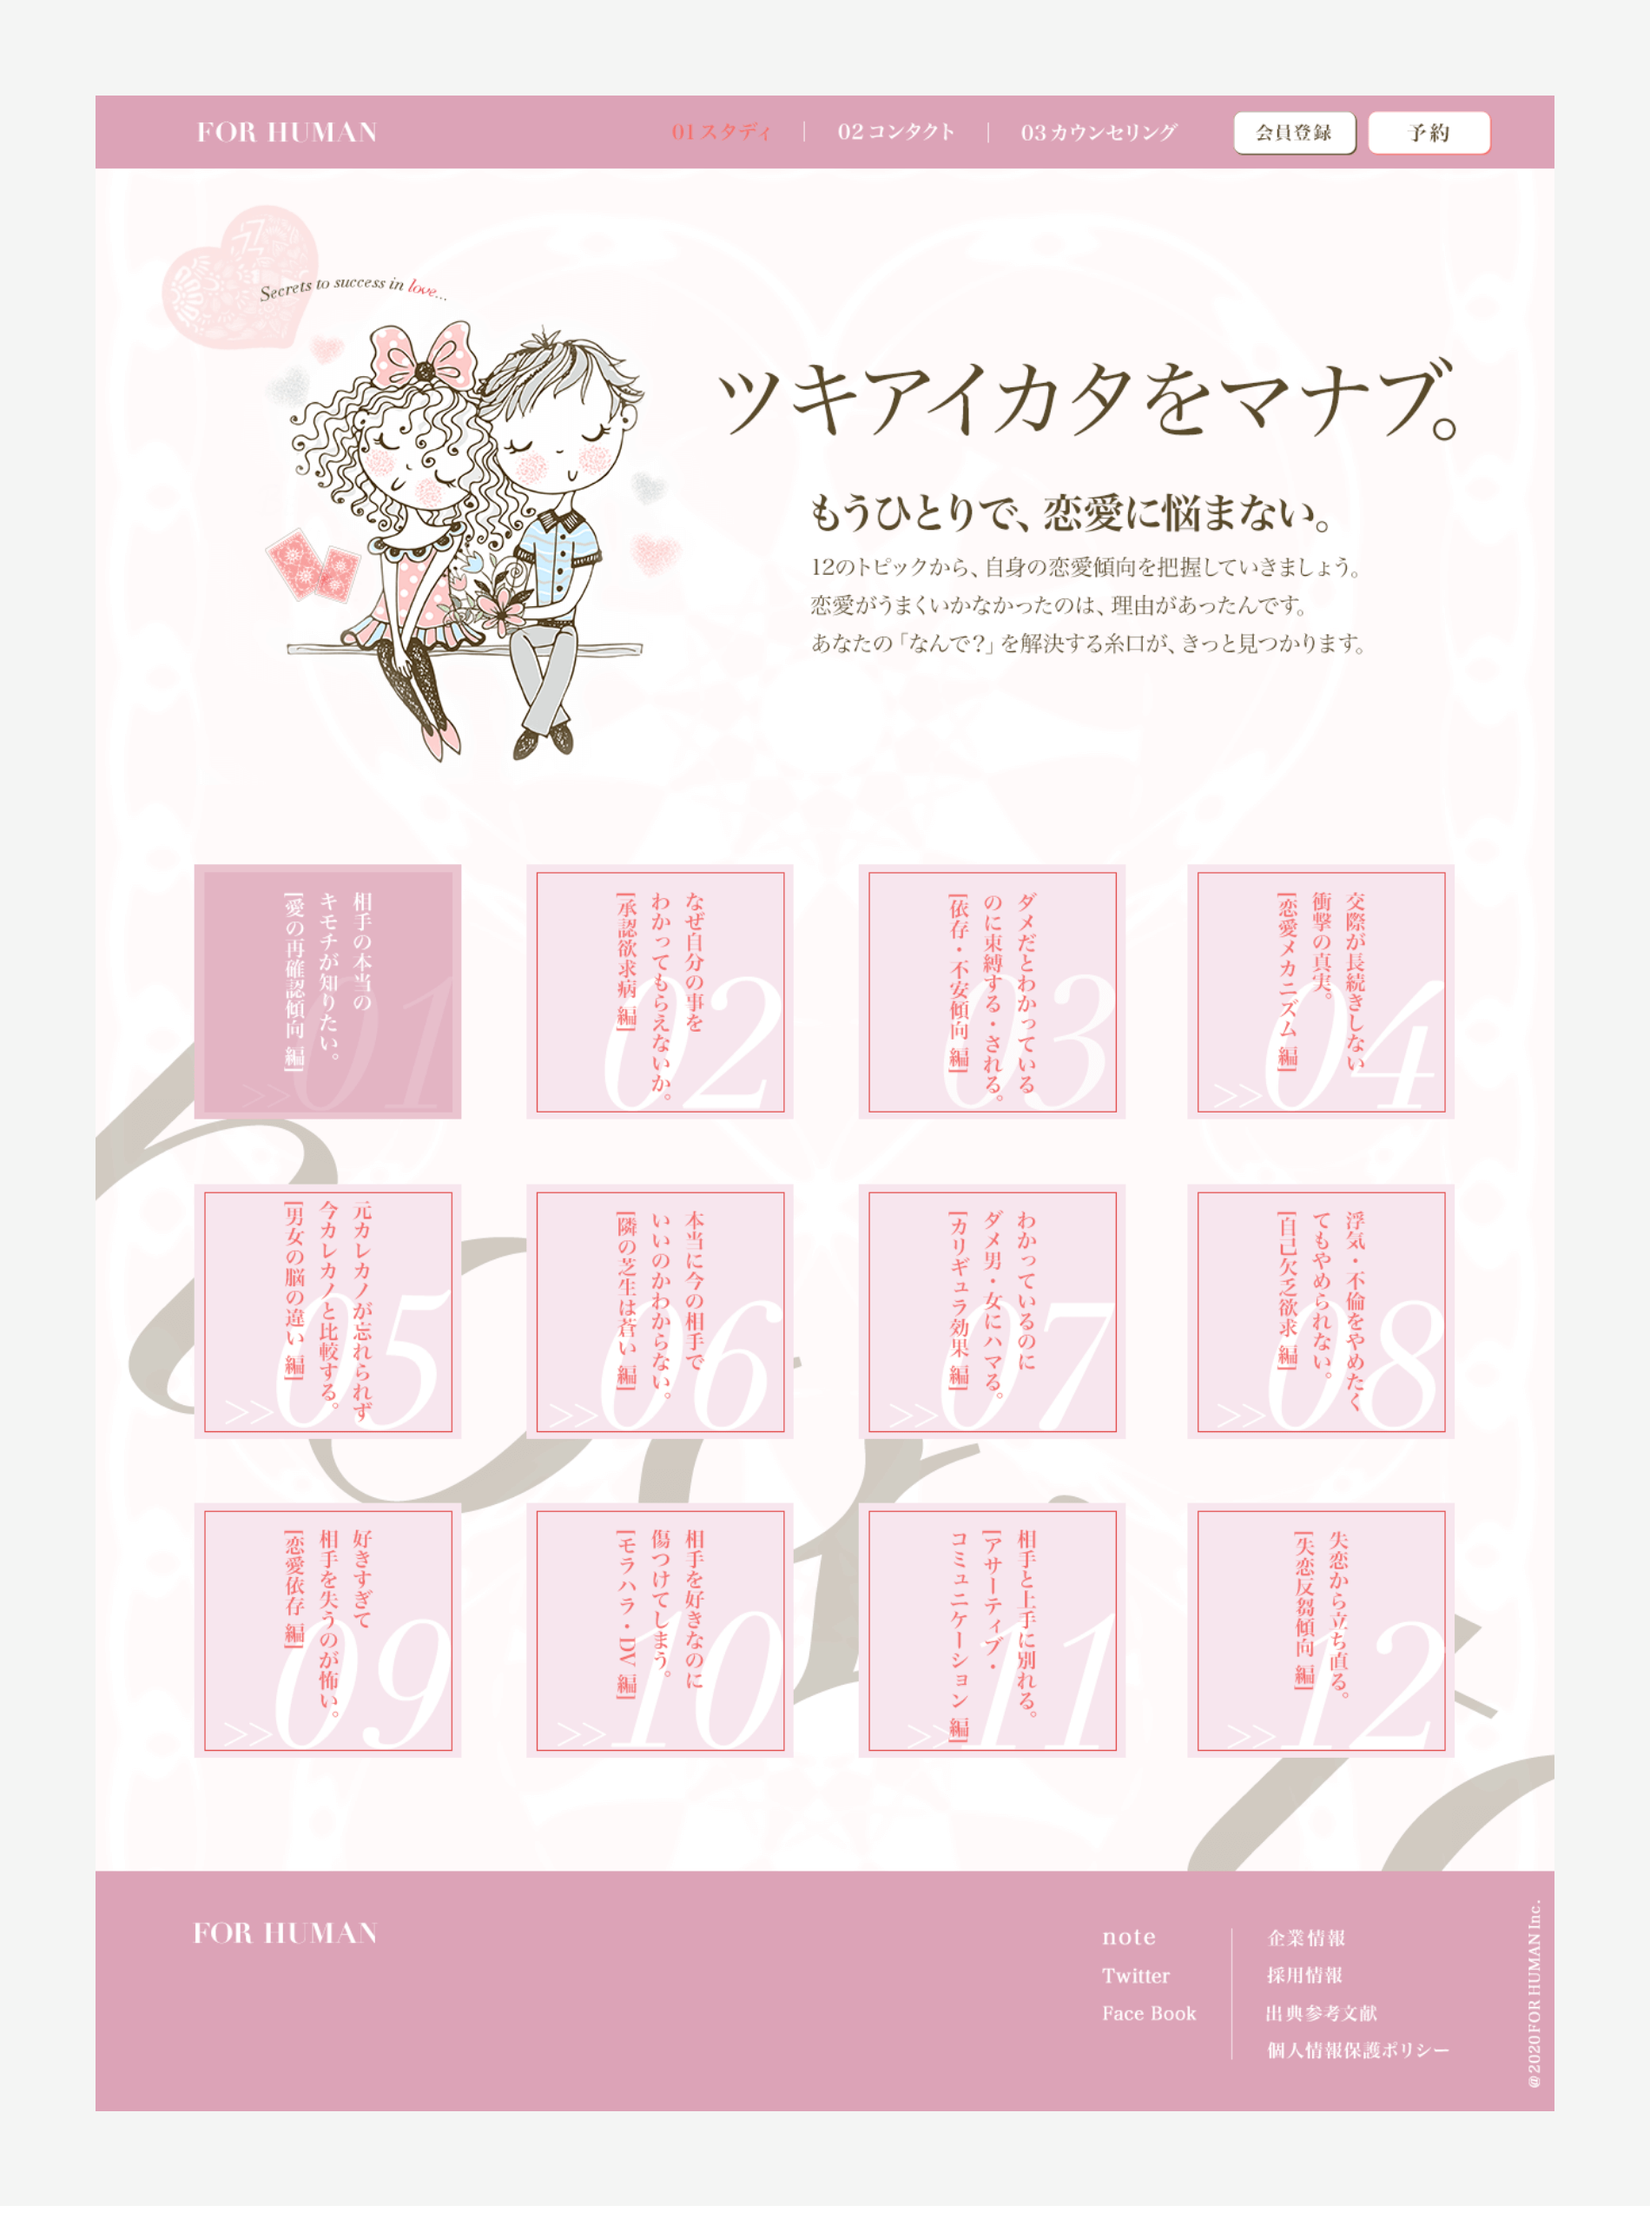
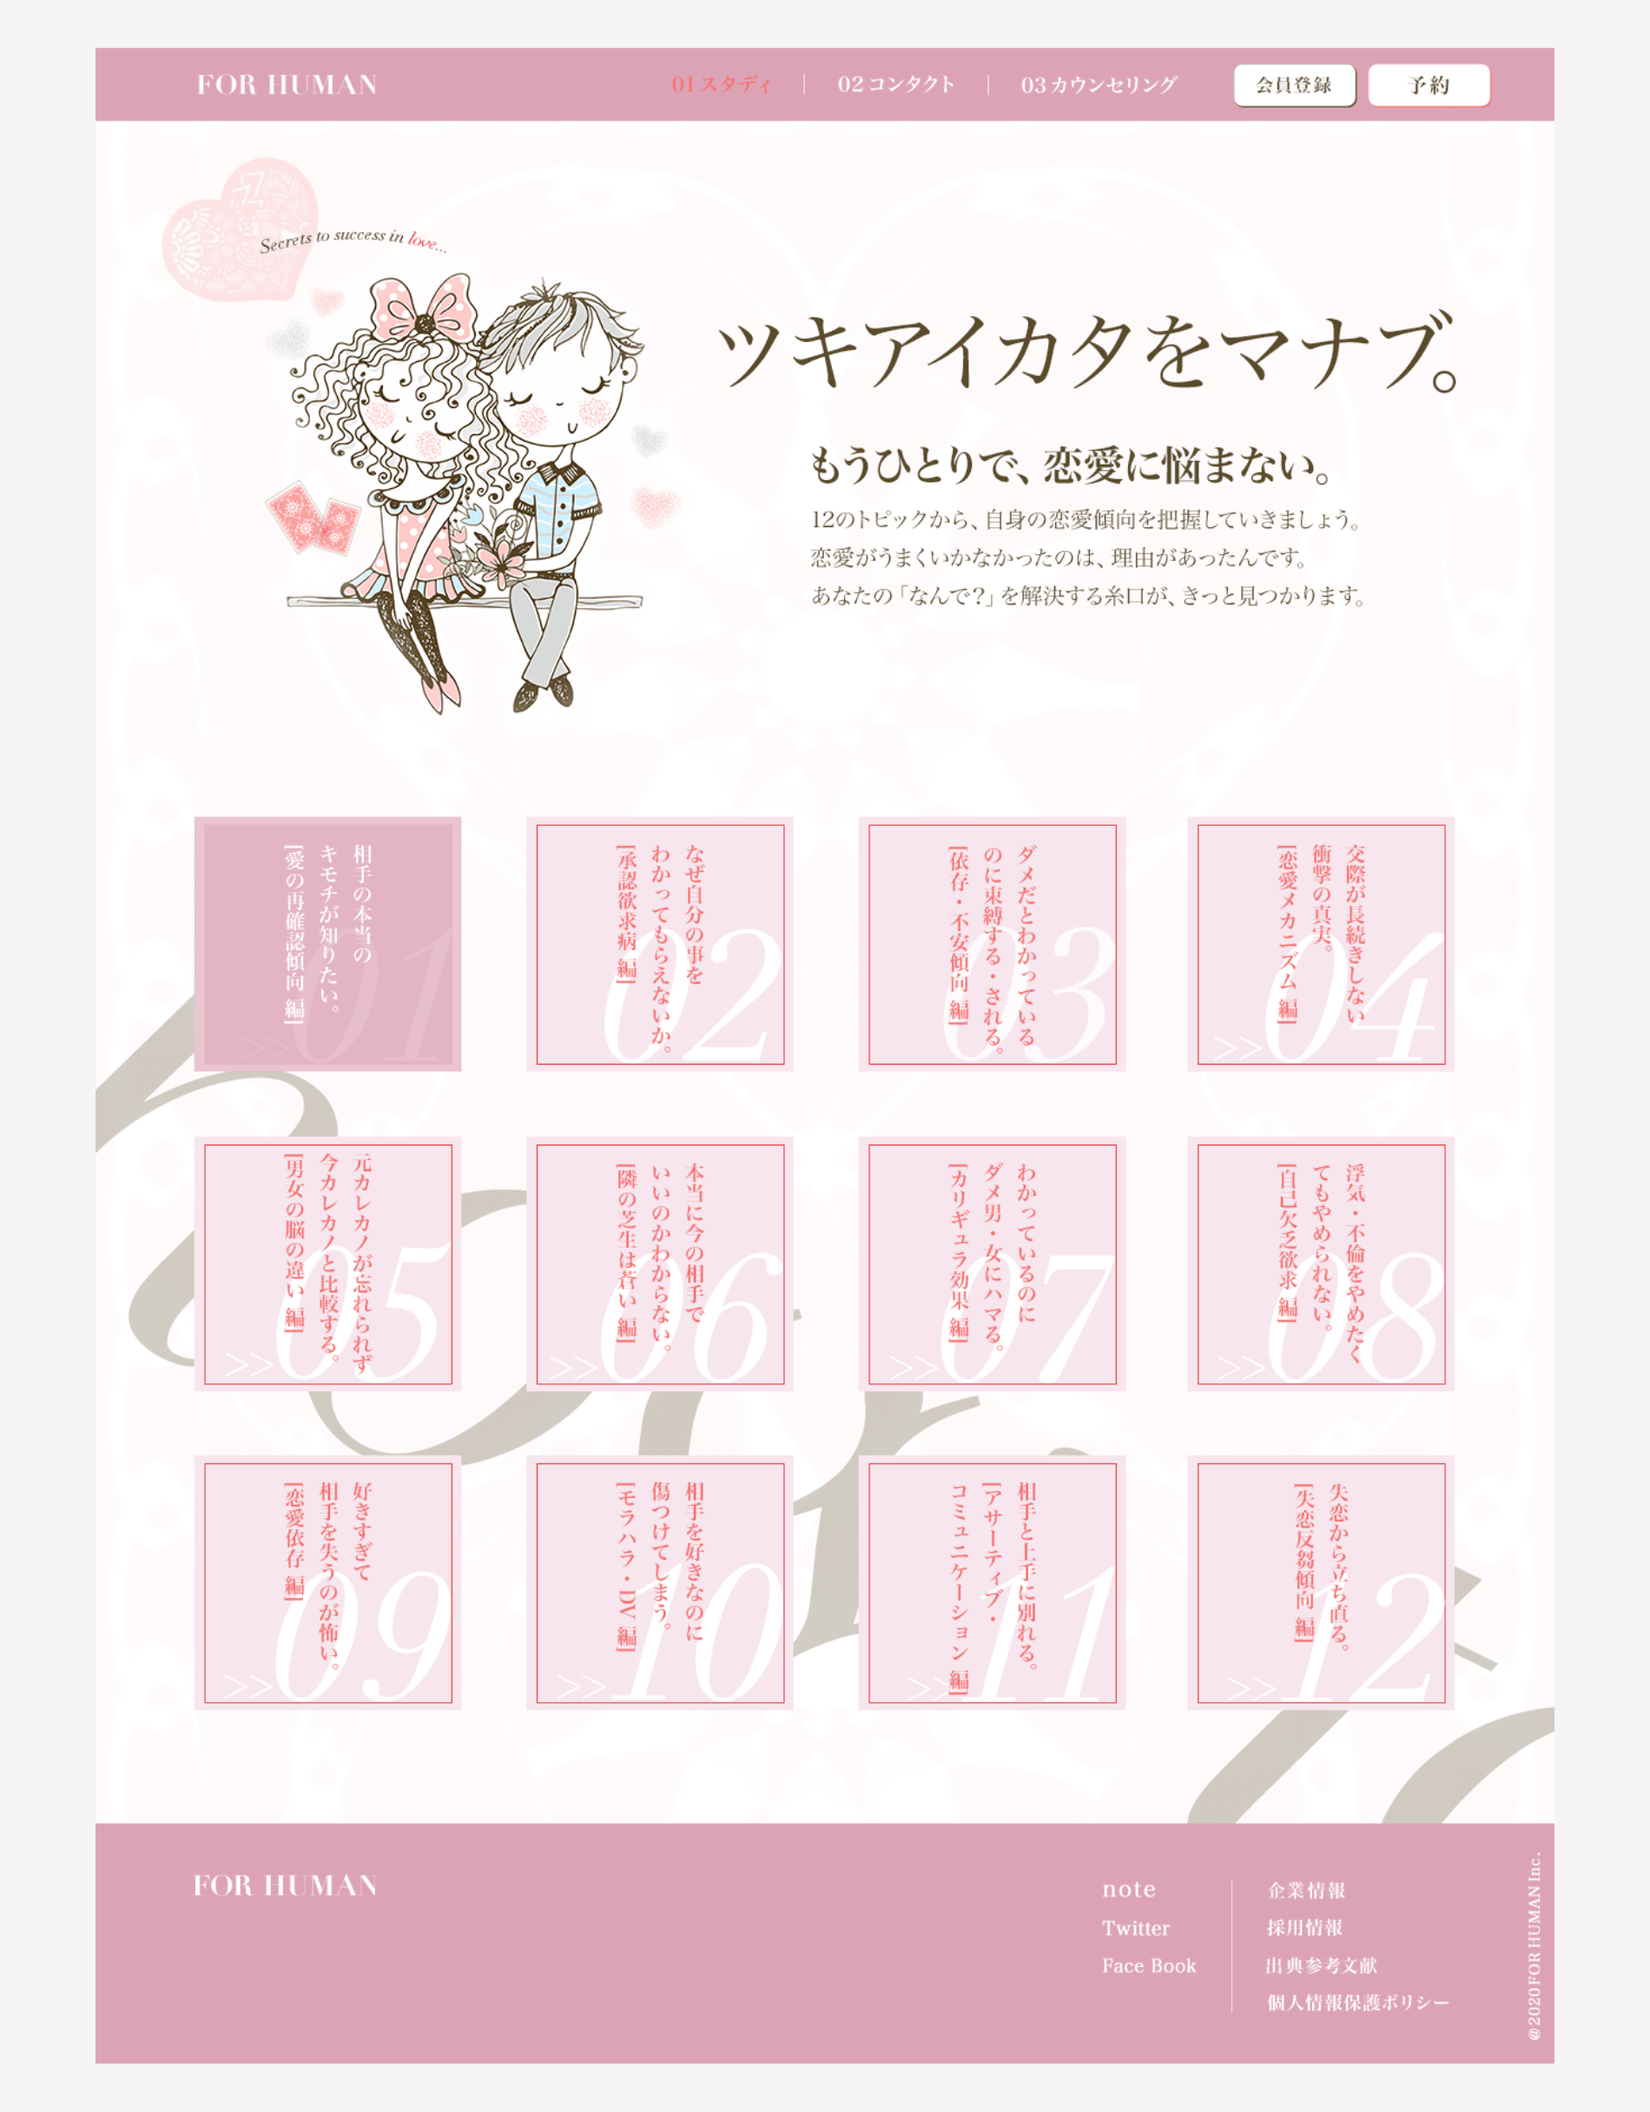
finish

diff --git a/works_1.html b/works_1.html
@@ -88,7 +88,6 @@
                 <figure class="ex_picture">
                     <img src="img/1_pc1.png" alt="1_pc1">
                     <img src="img/1_pc2.png" alt="1_pc2">
-                    <img src="img/1_pc3.png" alt="1_pc3">
                 </figure>
             </section>
 

diff --git a/css/style.css b/css/style.css
@@ -490,9 +490,7 @@ animation: example 0.5s ease 0.5s 1 forwards;
 .m11 {
   margin-top: 8px ;
 } 
-.m12 {
-  margin-top: -13px ;
-} 
+
 
 /*works 1-6 footer start  */
 .footer {
